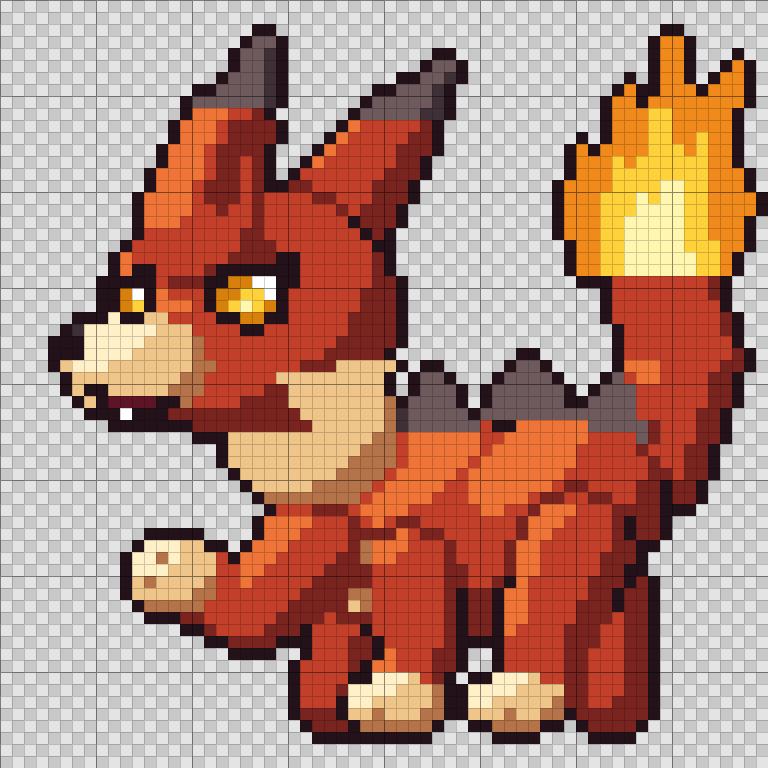
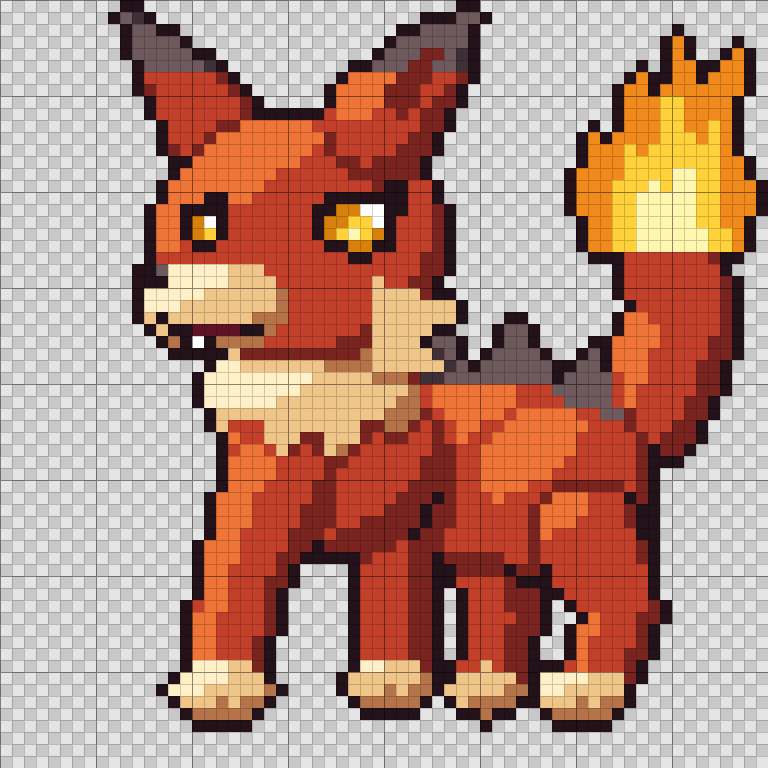
Rebuild Kindlet anatomy as a 3/4-front quadruped
Head sits over the chest with a visible chin and neck ruff, front legs
come straight down from the shoulders, the torso recedes behind them,
and the hind leg bends back at the hock. Flatter face shading.

Claude-Session: https://claude.ai/code/session_015N853SUWqrmyHcbNWNuNxK

diff --git a/art/creatures/kindlet.px.js b/art/creatures/kindlet.px.js
@@ -32,10 +32,11 @@ function tone(ramp, n, bias = 0) {
 }
 
 // Shapes return a normal at (x, y) or null when outside.
-function ell(cx, cy, rx, ry) {
+// flat > 1 flattens the volume toward the viewer (faces: mostly mid tone, thin shadow rim)
+function ell(cx, cy, rx, ry, flat = 1.2) {
   return (x, y) => {
     const u = (x + 0.5 - cx) / rx, v = (y + 0.5 - cy) / ry, q = u * u + v * v
-    return q > 1 ? null : norm([u, v, Math.sqrt(1 - q) * 1.2])
+    return q > 1 ? null : norm([u, v, Math.sqrt(1 - q) * flat])
   }
 }
 // Tapered tube through points [[x, y, r], ...]
@@ -53,6 +54,11 @@ function tube(pts) {
     return norm([best.ox, best.oy, Math.sqrt(Math.max(0, 1 - best.q * best.q)) * 1.2])
   }
 }
+// shape limited to inside a polygon (jagged fur edges keep the volume's shading)
+function within(shape, pts) {
+  const inside = polyShape(pts, [0, 0, 1])
+  return (x, y) => (inside(x, y) ? shape(x, y) : null)
+}
 // Flat-ish polygon with a fixed normal (ears, plates)
 function polyShape(pts, n) {
   return (x, y) => {
@@ -66,48 +72,55 @@ function polyShape(pts, n) {
   }
 }
 
-// Parts back to front. g: parts sharing a group blend without separation lines. mat: ramp, or (x, y) => ramp. sep: draw separation line against parts behind.
+// Parts back to front. g: parts sharing a group blend without separation lines.
+// mat: ramp, or (x, y) => ramp. bias darkens parts on the far side of the body.
+//
+// Anatomy (3/4 front, facing screen-left): big head over the chest, chest and front legs
+// nearest the viewer, the torso receding up-right behind them, hind legs at the back with
+// the hock bent backwards, tail rising from the rump.
+const tipped = (y0) => (x, y) => (y < y0 ? ROCK : HIDE)
 const parts = [
-  // tail: thick brush from the rump sweeping up behind the body, torch flame on the tip
-  { g: "tail", s: tube([[46, 42, 5.5], [53, 37, 5], [56, 29, 4.6], [54, 22, 4.2]]), mat: HIDE },
-  { s: polyShape([47, 22, 46, 15, 48, 10, 49, 13, 51, 5, 53, 9, 55, 0, 57, 8, 61, 4, 60, 12, 62, 16, 60, 22],
+  // tail rising from the rump, torch flame on the tip
+  { g: "tail", s: tube([[47, 37, 4], [53, 33, 4.6], [56, 26, 4.4], [55, 19, 3.8]]), mat: HIDE },
+  { g: "flame", s: polyShape([48, 20, 47, 14, 49, 9, 50, 12, 52, 4, 54, 8, 56, 0, 57, 7, 61, 3, 60, 11, 62, 15, 61, 20],
       [0, 0, 1]), mat: ["f", "f", "f"], flame: true },
-  { s: polyShape([49, 22, 49, 16, 51, 11, 52, 14, 54, 6, 56, 13, 58, 9, 58, 16, 59, 22], [0, 0, 1]),
+  { g: "flame", s: polyShape([50, 20, 50, 15, 52, 10, 53, 13, 55, 5, 57, 12, 59, 8, 59, 15, 60, 20], [0, 0, 1]),
     mat: ["y", "y", "y"], flame: true },
-  { s: polyShape([51, 22, 51, 18, 53, 14, 54, 17, 55, 11, 56, 17, 57, 22], [0, 0, 1]),
+  { g: "flame", s: polyShape([52, 20, 52, 16, 54, 13, 55, 16, 56, 10, 57, 16, 58, 20], [0, 0, 1]),
     mat: ["Y", "Y", "Y"], flame: true },
-  // far legs (darker by bias)
-  { g: "farL", s: tube([[29, 46, 4], [28, 52, 3.2], [27, 57, 3]]), mat: HIDE, bias: -0.4 },
-  { g: "farR", s: tube([[48, 46, 4.5], [50, 52, 3.2], [50, 57, 3]]), mat: HIDE, bias: -0.4 },
-  // torso: chest forward-left, rump back-right
-  { g: "body", s: ell(36, 43, 13, 9), mat: (x, y) => (y > 41 + (x - 22) * 0.35 && x < 36 ? CREAM : HIDE) },
-  { g: "body", s: ell(46, 41, 8, 7.5), mat: HIDE },                 // haunch
-  // charcoal back plates
-  { g: "body", s: polyShape([31, 35, 35, 29.5, 39, 34.5], [-0.3, -0.8, 0.6]), mat: ROCK },
-  { g: "body", s: polyShape([38.5, 34, 43, 28, 47, 33.5], [-0.3, -0.8, 0.6]), mat: ROCK },
-  { g: "body", s: polyShape([46.5, 34, 51, 30, 53.5, 36], [0.2, -0.8, 0.6]), mat: ROCK },
-  // near hind leg
-  { g: "hind", s: tube([[47, 45, 4.6], [44, 52, 3.4], [44, 56, 3.2]]), mat: HIDE, bias: -0.12 },
-  { g: "hind", s: ell(42, 57.5, 4.2, 2.4), mat: CREAM },            // hind paw
-  // planted front leg
-  { g: "front", s: tube([[33, 47, 3.8], [34, 53, 3.1], [33, 56, 3.1]]), mat: HIDE, bias: -0.12 },
-  { g: "front", s: ell(32, 57.6, 4.2, 2.4), mat: CREAM },
-  // near front leg, raised and bent (dynamic pose)
-  { g: "raised", s: tube([[25, 45, 4.4], [20, 50, 3.4], [16, 48, 3.1]]), mat: HIDE, bias: -0.12 },
-  { g: "raised", s: ell(13.5, 47, 3.8, 3.2), mat: CREAM },            // raised paw
-  // neck ruff
-  { g: "head", s: ell(25, 35, 7.5, 6.5), mat: CREAM },
-  // far ear (charcoal tip)
-  { g: "farEar", s: tube([[27, 17, 4.6], [32, 10, 3.2], [36, 5, 0.8]]), mat: (x, y) => (y < 9 ? ROCK : HIDE), bias: -0.25 },
-  // head: round, cute proportions
-  { g: "head", s: ell(20, 25, 12, 10.5), mat: HIDE },
-  // short muzzle
-  { g: "head", s: ell(10.5, 29.5, 6, 4.4), mat: CREAM },
-  // flame-shaped cheek tufts
-  { g: "head", s: polyShape([22, 30, 33, 29, 29, 33, 31, 35.5, 24, 34], [0.1, 0.3, 0.9]), mat: CREAM },
-  // near ear: broad, swept back, charcoal tip
-  { g: "ear", s: tube([[16, 18, 5.4], [18, 10, 3.6], [21, 3, 0.8]]), mat: (x, y) => (y < 8 ? ROCK : HIDE) },
-  { g: "ear", s: tube([[17.5, 15, 1.5], [19, 10, 0.9]]), mat: ["D", "D", "D"] }, // inner ear
+  // far hind leg
+  { g: "farH", s: tube([[40, 44, 3.6], [41, 51, 2.6], [40, 55, 2.6]]), mat: HIDE, bias: -0.4 },
+  { g: "farH", s: ell(39.5, 56.5, 3.4, 2), mat: CREAM, bias: -0.3 },
+  // torso receding behind the chest, haunch at the back
+  { g: "body", s: ell(40, 38, 11, 8.5, 1.6), mat: HIDE },
+  { g: "body", s: ell(46, 40, 7.5, 7.5), mat: HIDE },
+  // charcoal back plates along the spine
+  { g: "body", s: polyShape([33, 31.5, 36, 26.5, 39, 31], [-0.3, -0.8, 0.6]), mat: ROCK },
+  { g: "body", s: polyShape([38.5, 31, 42, 25.5, 45.5, 31], [-0.3, -0.8, 0.6]), mat: ROCK },
+  { g: "body", s: polyShape([45, 32, 49, 28, 51, 34], [0.2, -0.8, 0.6]), mat: ROCK },
+  // near hind leg: thigh is the haunch, hock bends back, paw forward
+  { g: "hind", s: tube([[48, 44, 4.4], [51, 50, 2.8], [49, 55, 2.7]]), mat: HIDE, bias: -0.1 },
+  { g: "hind", s: ell(47.5, 56.8, 4, 2.2), mat: CREAM },
+  // far front leg, straight under the far shoulder
+  { g: "farF", s: tube([[32, 40, 3.8], [32, 49, 3], [32, 54, 2.8]]), mat: HIDE, bias: -0.3 },
+  { g: "farF", s: ell(31.5, 56, 3.8, 2.2), mat: CREAM, bias: -0.2 },
+  // chest, nearest part of the body
+  { g: "chest", s: ell(27, 37, 9, 8, 1.8), mat: HIDE },
+  // near front leg, braced forward (pouncing stance)
+  { g: "front", s: tube([[22, 40, 4.4], [19, 48, 3.3], [18, 54, 3.1]]), mat: HIDE },
+  { g: "front", s: ell(17.5, 56.6, 4.2, 2.4), mat: CREAM },
+  // neck ruff, jagged fur edge
+  { g: "ruff", s: within(ell(25, 33, 9.5, 6.5), [15, 27, 35, 27, 35, 32, 32, 36, 30, 33.5, 27, 38, 25, 34, 22, 37.5, 20.5, 33.5, 17, 35]),
+    mat: CREAM },
+  // far ear, charcoal tip
+  { g: "farEar", s: tube([[17, 10, 4], [13, 4.5, 2.4], [10, 0.8, 0.6]]), mat: tipped(5), bias: -0.25 },
+  // head, big and round (starter proportions), face toward the viewer
+  { g: "head", s: ell(24, 19, 12, 10.5, 2.4), mat: HIDE },
+  { g: "head", s: ell(17, 24.5, 6.3, 3.9), mat: CREAM },          // muzzle
+  { g: "head", s: polyShape([30, 22, 38, 25, 34, 27, 37, 30, 30, 29.5], [0.2, 0.3, 0.9]), mat: CREAM }, // cheek tuft
+  // near ear, charcoal tip
+  { g: "ear", s: tube([[31, 9, 4.6], [35, 4.5, 3.2], [38, 0.8, 0.7]]), mat: tipped(5) },
+  { g: "ear", s: tube([[32.5, 7, 1.6], [35, 3.5, 0.8]]), mat: ["D", "D", "D"] },  // inner ear
 ]
 
 sprite("kindlet", { w: W, h: H, outline: "k" }, (c) => {
@@ -139,7 +152,7 @@ sprite("kindlet", { w: W, h: H, outline: "k" }, (c) => {
 },
   // ---- face (hand-placed) ----
   // near eye: upturned almond, heavy top lid, amber iris, one hard highlight
-  grid(16, 20, `
+  grid(25, 14, `
     ......kk
     .kkkkkkk
     kkeewwkk
@@ -147,19 +160,18 @@ sprite("kindlet", { w: W, h: H, outline: "k" }, (c) => {
     keyYyek.
     .kkeekk.
     ...kk...`),
-  // far eye: foreshortened, tucked behind the brow ridge
-  grid(8, 21, `
+  // far eye: foreshortened beside the bridge of the muzzle
+  grid(14, 15, `
     ..kk
     kkkk
     kewk
     keyk
     .kk.`),
-  px(30, 58, "b"), px(34, 58, "b"), px(41, 58, "b"), px(44, 58, "b"), // toes
-  px(12, 45, "b"), px(11, 47, "b"),
-  grid(4, 27, "kk\nkk"), px(5, 26, "g"),             // nose
+  grid(11, 21, "kk\nkk"), px(12, 21, "G"),            // nose
   // grin with one fang
-  grid(6, 31, `
-    kk......
-    .kmmmmkk
-    ..kwkkk.`),
+  grid(12, 25, `
+    k.........
+    .kkmmmmkk.
+    ..kwk.....`),
+  px(17, 57, "b"), px(20, 57, "b"), px(47, 57, "b"), px(31, 56, "b"), // toes
 )
